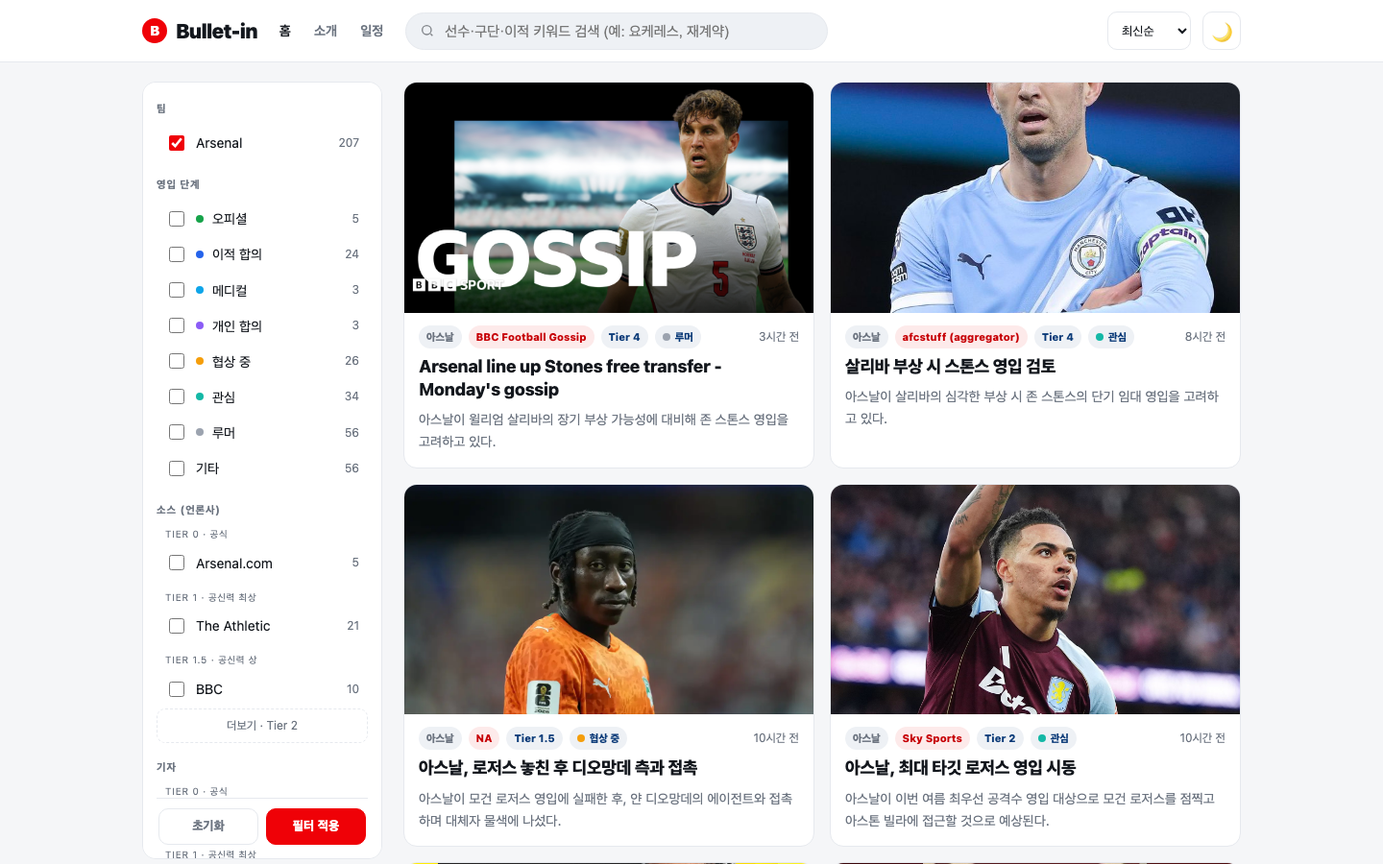
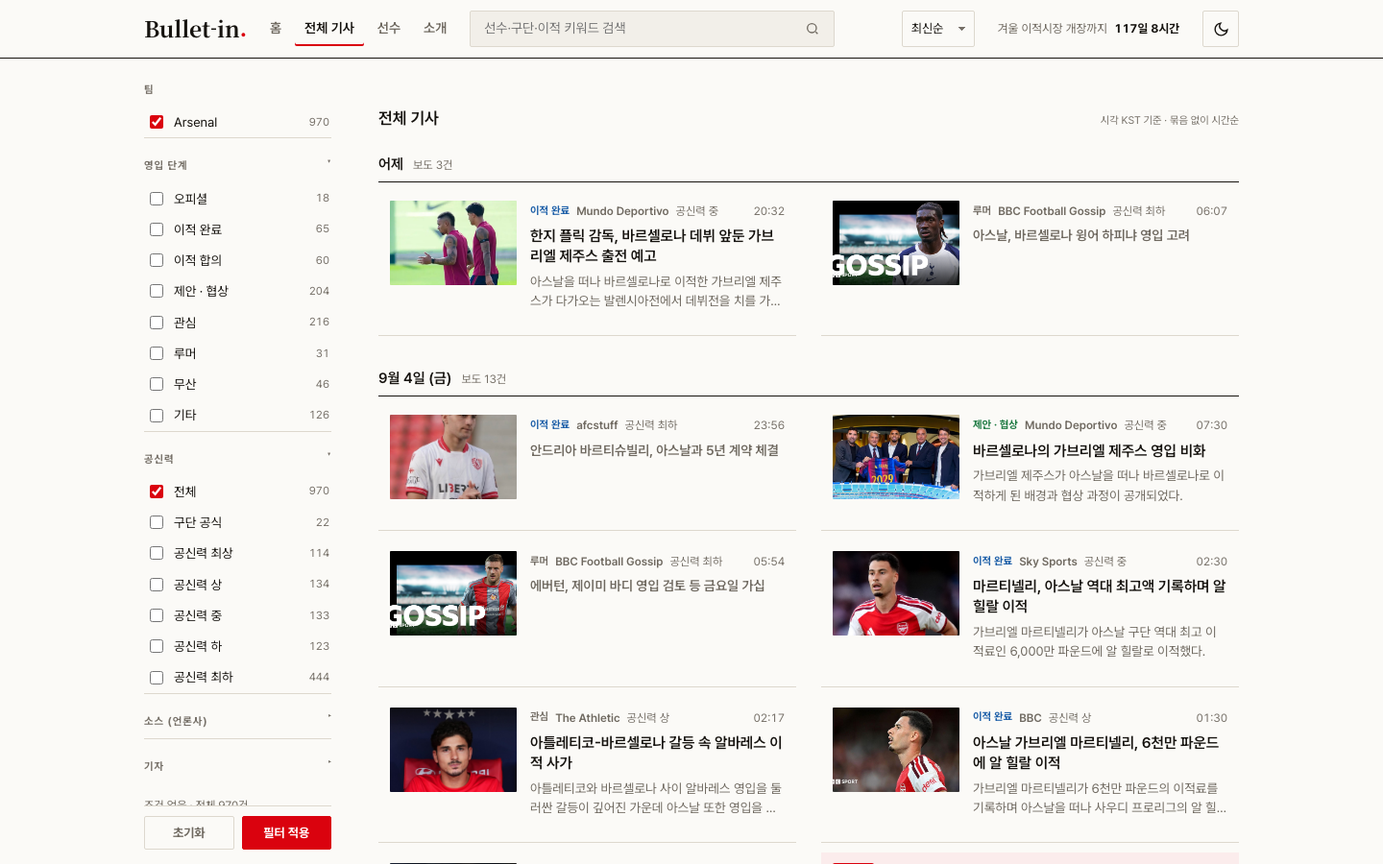
docs(readme): 지금 모양대로 다시 쓴다 — 운영 · 데이터 품질 · 문서 지도 절과 새 아키텍처 그림 · 대시보드 캡처 (안건 2χ) (#473)
* docs(readme): 두 화면 · 운영 · 데이터 품질 · 문서 지도 절과 아키텍처 그림을 지금 모양으로 (안건 2χ)

README 가 강점 셋 (레이크하우스 · 백업 복구 · 배포 자동화) 을 말하지 않고 낡은 그림 · 문장 (5월 아키텍처 · Gemini 무료 티어 · 7월 실측) 을 갖고 있었다. 세 독자 (30초 방문자 · 5분 엔지니어 · 운영자) 순서로 다시 쓴다. 캡처 셋은 다음 커밋.

- CI 배지와 「살아 있는지」 한 줄 · 공개 첫 주 방문자 (하한선)
- 아키텍처 그림을 SVG 로 다시 (회차 태스크 여덟 · 저장 넷 · 회차 밖 타이머) · ASCII 흐름도 갱신
- 「운영」 · 「데이터 품질」 · 「문서 지도 (다섯 편)」 절 신설
- §4 SLO 실측을 2026-09-05 값으로 · 번호는 수집 현황 화면과 같게
- §7 Gemini 「무료 티어로 비용 0」 을 「유료 (Tier 1 선불) · 금액은 결제 보고서에서」 로 · 레이크하우스 행
- §8 에 Iceberg 두 네임스페이스 (mart_history · behavior)
- 기자 tier 표는 config/credibility.yaml 링크로 (105명 · 55곳)
- §11 한계에 재방문 장치 없음 · 방문자 수는 하한선

Refs: 안건 2χ · 범위는 2026-09-04 사용자 동의 · 메모리 next-session-prompt-2026-09-05-pr-c-and-portfolio §0.9
Claude-Session: https://claude.ai/code/session_01TepUKdcHxnEbxiCMAJqgVK

* docs(readme): 라이브 캡처 셋 — 전체 기사 · 행동 지표 · 수집 현황 (안건 2χ)

2026-09-06 00:00 회차가 PR 2 (#471) 를 받은 뒤 라이브 세 화면을 1440px 로 찍었다. 첫 화면 자리는 홈 대신 전체 기사 화면이다. 홈의 대표 기사 사진이 assets.arsenal.com 에서 ORB 로 막혀 헤드리스에서 빈 자리로 나오기 때문이고, 실제 브라우저에서 보이는지는 확인 대상으로 남긴다.

- serving-page-live.png 를 all.html 캡처로 교체 (파일 이름은 옛 문서가 가리켜 유지) · 설명문 갱신
- dashboard-behavior-live.png · dashboard-ops-live.png 신설 (위 1,500px)
- 문체 점검 (humanize fast) 의 쉼표 11개 반영

Refs: 안건 2χ · PR #471 · docs/runbook/2026-09-04-running-the-cycle-under-airflow.md §6.5
Claude-Session: https://claude.ai/code/session_01TepUKdcHxnEbxiCMAJqgVK

---------

diff --git a/README.md b/README.md
@@ -1,14 +1,16 @@
 # Bullet-in
 
-> 영국 현지 언론 · ITK (X)의 Arsenal FC 소식을 매일 병렬 수집하고, 공신력으로 스코어링 · 중복제거한 뒤 LLM으로 번역 · 요약하여 신뢰도순으로 보여주는 뉴스 수집 파이프라인.
+[![CI](https://github.com/benidjor/bullet-in/actions/workflows/ci.yml/badge.svg)](https://github.com/benidjor/bullet-in/actions/workflows/ci.yml)
+
+> 영국 현지 언론 · ITK (X) 의 Arsenal FC 소식을 하루 8회 병렬 수집하고 공신력으로 스코어링 · 중복 제거한 뒤 LLM 으로 번역 · 요약해 신뢰도순으로 보여주는 뉴스 수집 파이프라인.
 >
-> **공개 서비스**: https://bullet-in.pages.dev — VM 스케줄이 하루 8회 자동 수집 · 배포.
+> **공개 서비스**: https://bullet-in.pages.dev — 2026-08-29 공개 · Airflow 회차가 3시간마다 수집 · 검사 · 배포한다. 지금 살아 있는지는 [수집 현황 화면](https://bullet-in.pages.dev/ops.html) 의 「생성」 시각과 SLO 표가 말해 준다.
 
-*Bullet-in = bulletin (단신) + bullet (병기고 Arsenal)의 언어유희.*
+*Bullet-in = bulletin (단신) + bullet (병기고 Arsenal) 의 언어유희.*
 
-![Bullet-in 인덱스 — 실데이터](docs/assets/serving-page-live.png)
+![Bullet-in 전체 기사 — 실데이터](docs/assets/serving-page-live.png)
 
-> 실데이터 인덱스. 신뢰도 (tier) 순 정렬 · 언론사 · 기자 facet 필터 · 한국어 번역 · 요약.
+> 전체 기사 화면 (`all.html`). 날짜별 시간순 · 영입 단계 · 공신력 · 소스 · 기자 facet 필터 · 한국어 번역 · 요약. 홈은 대표 기사와 주요 소식을 신문처럼 배치한다.
 
 ![Bullet-in 기사 상세 — 실데이터](docs/assets/article-detail-live.png)
 
@@ -18,148 +20,182 @@
 
 ## 1. 동기
 
-아스날 뉴스는 영국 현지 언론과 ITK (In The Know) 트위터에 흩어져 있고, 매체 · 계정마다 공신력 편차가 크다. 신뢰할 만한 소스만 골라 한곳에서, 한국어로 번역 · 요약해 신뢰도순으로 보고 싶다는 필요에서 출발했다. **영국 현지 소스를 한곳에 모아 공신력순으로 정렬하고 한국어로 번역 · 요약**하는 서비스다.
+아스날 뉴스는 영국 현지 언론과 ITK (In The Know) 트위터에 흩어져 있고 매체 · 계정마다 공신력 편차가 크다. 신뢰할 만한 소스만 골라 한곳에서, 한국어로 번역 · 요약해 신뢰도순으로 보고 싶다는 필요에서 출발했다. **영국 현지 소스를 한곳에 모아 공신력순으로 정렬하고 한국어로 번역 · 요약**하는 서비스다.
 
-단순 "긁어서 저장" 스크립트가 아니라, 신뢰성 · 멱등성 · 데이터 품질 · 관측성을 갖춘 **데이터 프로덕트**로 설계했다.
+단순 「긁어서 저장」 스크립트가 아니라 신뢰성 · 멱등성 · 데이터 품질 · 관측성을 갖춘 **데이터 프로덕트**로 설계했고 공개 첫 주에 실제 독자 890명 (7일 · 광고 차단 방문은 안 잡히므로 하한선) 이 다녀갔다.
 
 ## 2. 아키텍처
 
-메달리온 (Bronze→Silver/Gold) + AI 인리치먼트 파이프라인.
+메달리온 (Bronze → Silver → Gold) + LLM 인리치먼트 + 품질 게이트 + 배포 자동화. 회차 하나가 Airflow DAG 의 태스크 여덟으로 돈다.
 
-![아키텍처 — 수집 파이프라인](docs/assets/architecture.png)
+![아키텍처 — 회차 하나의 흐름](docs/assets/architecture.svg)
 
 ```
-[Ingest]    소스별 어댑터 (RSS · Guardian API · httpx+파서 · Playwright (X 쿠키) · fmkorea 검색)
-   │        단일 SourceAdapter 인터페이스 / asyncio 팬아웃 병렬
-   ▼
-[Normalize] pydantic 정규화
-   ▼
-[Dedup]     URL 정규화 + content_hash, 증분, 변경 감지
-   ▼
-[Score]     공신력 Tier(0~4) → confidence (YAML 설정)
-   ▼
-[Load raw]  MongoDB (불변 원문, schema-on-read) = Bronze
-   ▼
-[Load mart] MariaDB (정형 mart, UNIQUE dedup, 서빙) = Silver
-   ▼
-[Enrich]    LLM 번역(한국어) + 요약 + 영입 단계 분류 (신규 항목만, 멱등)
-   ▼
-[Quality]   dbt(DuckDB가 MariaDB attach) build + test = 품질 게이트 · 마트 = Gold
-   ▼ (통과 시)
-[Serve]     신뢰도순 정적 HTML
+Airflow DAG bullet_in_cycle (3시간 간격 · LocalExecutor · 태스크 여덟)
 
-스케줄: Airflow 3 DAG (VM · LocalExecutor) 가 태스크 넷으로 쪼개 하루 8회 실행 · 회차 끝 Cloudflare Pages 자동 배포
-        systemd 는 워치리스트 · 백업 · 유지보수 같은 부수 작업만 맡는다
+advance ─▶ collect ─▶ enrich ─▶ publish ─▶ gate ─▶ deploy_site ─▶ judge
+                                   └─▶ warehouse_load (publish 뒤 병렬)
+
+advance         origin/main 을 내려받는다 (세션이 VM 에서 git pull 을 하지 않는다)
+collect         소스 어댑터 아홉을 asyncio 로 병렬 수집 → 정규화 → URL · content_hash 로 중복 제거 → 공신력 tier → MongoDB (Bronze) · MariaDB (Silver)
+enrich          Gemini 로 번역 · 요약 · 영입 단계 분류 (신규 행만 · 멱등)
+publish         정적 HTML 렌더 (기사 · 선수 · 대시보드 두 화면) + 회차 기록 · 신선도 판정
+gate            dbt build + test 21종 (DuckDB 가 MariaDB attach) — 실패면 배포를 세운다
+deploy_site     Cloudflare Pages 업로드 (산출물이 비정상이면 중단)
+judge           라이브의 build.json 으로 반영을 확인 · 실패면 이전 커밋으로 롤백 · Discord 알림
+warehouse_load  MariaDB 변경분 · 스냅샷과 GA4 행동 로그를 Iceberg (GCS) 에 적재 · gold 표 재작성
 ```
+
+systemd 는 회차 밖의 부수 작업만 맡는다 — 선수 워치리스트 (귀속 선수를 fmkorea 에서 돌려 검색) · 매일 백업 (GCS) · 레이크하우스 유지보수 (스냅샷 만료 · 컴팩션) · Airflow 감시 (심박 · 회차 지연).
 
 ## 3. 핵심 기능
 
-- **이종 소스 통합** — RSS · REST API · 정적 HTML · JS 렌더링 · X (트위터)를 단일 어댑터 인터페이스 뒤로. 소스별 최적 도구 선택 (정적=httpx, API=Guardian, X=쿠키 주입 Playwright).
-- **병렬 수집** — asyncio 팬아웃 + 소스별 실패 격리 (한 소스 실패가 전체를 멈추지 않음).
-- **공신력 스코어링** — Tier 0 (Arsenal.com 공식)~4 (타블로이드)를 YAML로 외부화, confidence로 정렬.
-- **중복제거 · 증분 · 변경 감지** — content_hash + URL 정규화, DB UNIQUE 제약으로 앱 · DB 이중 방어.
-- **기자 단위 공신력 · 필터** — JSON-LD · meta 저자 추출, 소속 일치 시 기자 tier 우선 (min 가드), 언론사 · 기자 facet 필터 (tier 순 정렬). 전담 기자 보유 소스의 tier 는 비전담 기준선 — 전담 (등재) 기자 기사만 등재 tier 로 승격된다.
-- **LLM 번역 · 요약** — Gemini 2.5 Flash-Lite로 제목 · 본문 전문 번역, 한 줄 · 3줄 요약, 영입 단계 분류. 신규 항목만 처리해 멱등 · 저비용.
-- **데이터 품질 게이트** — dbt test (unique · not_null · accepted_values)로 "이상 점검"을 선언적으로. 신선도는 자체 워터마크 감시 (SLO-5).
-- **관측성 · 알림** — 수집 현황 ops 뷰 (`site/ops.html`), 수집량 이상 · 신선도 · 파이프라인 실패 Discord 알림.
+- **이종 소스 통합** — RSS · REST API · 정적 HTML · JS 렌더링 · X (트위터) · 한국 커뮤니티를 단일 어댑터 인터페이스 뒤로. 소스별 최적 도구 선택 (정적 = httpx, API = Guardian, X = 쿠키 주입 Playwright).
+- **병렬 수집 · 실패 격리** — asyncio 팬아웃. 한 소스의 실패가 회차를 멈추지 않는다.
+- **공신력 스코어링** — Tier 0 (Arsenal.com 공식) 에서 4 (타블로이드) 를 YAML 로 외부화, confidence 로 정렬. 기자 단위 tier 가 매체 tier 를 덮는다 (전담 기자의 기사만 승격).
+- **중복 제거 · 증분 · 변경 감지** — content_hash + URL 정규화, DB UNIQUE 제약으로 앱 · DB 이중 방어.
+- **LLM 번역 · 요약** — Gemini 2.5 Flash-Lite 로 제목 · 본문 번역, 한 줄 · 3줄 요약, 영입 단계 분류. 신규 행만 처리해 멱등. 429 를 만나면 그 회차를 멈추고 다음 회차가 잇는다.
+- **선수 축** — 기사에서 선수를 추출해 주체 · 언급으로 귀속하고 선수별 페이지와 이적 상태 (영입 진행 · 확정 · 무산 · 타 클럽행 · 방출) 를 명단에서 관리한다.
+- **데이터 품질 게이트** — 회차 끝 dbt test 21종이 배포를 막는다 (§6).
+- **배포 자동화** — 머지된 코드를 다음 회차가 스스로 받고 반영을 라이브에서 확인하고 실패면 되돌린다 (§5).
+- **관측성** — 대시보드 두 화면 (행동 지표 · 수집 현황) 과 Discord 알림 (수집량 이상 · 신선도 · 게이트 · 태스크 실패 · 배포 판정).
+- **행동 로그 · 레이크하우스** — GA4 이벤트를 Iceberg 에 bronze · silver · gold 로 쌓고 (사람 · 세션 · 코호트 표), 마트의 변경 이력과 일별 스냅샷도 같은 레이크하우스에 남긴다 (§8).
 
 **수집 소스** — 고정 tier 7종 + 항목별 동적 tier 2종 (X · 커뮤니티는 언급된 기자 · 매체의 공신력으로 산출). 언론 5종은 공통 이적 키워드 필터를 공유한다 (`config/sources.yaml`).
 
 | 소스 | tier | 어댑터 | 비고 |
 |---|---|---|---|
 | Arsenal.com | 0 | arsenal_api | 공식 — 공홈 GraphQL API, taxonomy 필터 (이적 · 1군 재계약) |
-| BBC Sport | 1.5 | html | 비전담 기준선 — 전담 (Mokbel) 은 min 가드로 tier 1 승격 |
-| Sky Sports | 2 | html | 비전담 기준선 — 전담 (Sheth) 은 min 가드로 tier 1.5 승격 |
+| BBC Sport | 1.5 | html | 비전담 기준선 — 전담 (Mokbel) 은 tier 1 승격 |
+| Sky Sports | 2 | html | 비전담 기준선 — 전담 (Sheth) 은 tier 1.5 승격 |
 | The Guardian | 3 | guardian_api | Open Platform API (`GUARDIAN_API_KEY` 필요) |
-| Goal.com | 4 | html | 정적 서빙 확인으로 playwright → html 전환 · 재활성 (2026-07) |
+| Goal.com | 4 | html | 정적 서빙 확인으로 playwright → html 전환 (2026-07) |
 | BBC Football Gossip | 4 | html | 타 매체 루머 라운드업 |
-| football.london | 4 | html | |
-| afcstuff (X) | 동적 | x_playwright | 트윗 내 언급 기자 · 매체 tier로 라우팅 (fallback 4) |
-| fmkorea 축구 소식통 | 동적 | fmkorea | 한국 커뮤니티 — 언급 기자 · 매체 tier로 라우팅 (기본 4) |
+| football.london | 4 | html | 2026-07 이후 비활성 (`enabled: false`) · 옛 회차 기록에는 남아 있다 |
+| afcstuff (X) | 동적 | x_playwright | 트윗 내 언급 기자 · 매체 tier 로 라우팅 (fallback 4) |
+| David Ornstein (X) | 1 | x_playwright | 기자 본인 계정 — 트윗에 @핸들이 없어 고정 tier |
+| fmkorea 축구 소식통 | 동적 | fmkorea | 한국 커뮤니티 — 언급 기자 · 매체 tier 로 라우팅 (기본 4) |
 
-**기자 · ITK 공신력** — 동적 소스 항목의 tier 산출 기준 (기자 먼저 → 매체 → 기본 4). 전체 레지스트리는 `config/credibility.yaml`.
-
-| tier | 기자 · ITK |
-|---|---|
-| 1 | David Ornstein (The Athletic) · Sami Mokbel (BBC) |
-| 1.5 | Fabrizio Romano (독립) · James McNicholas (The Athletic) · Art de Roché (The Athletic) · Dharmesh Sheth (Sky Sports) · handofarsnal (ITK) |
-| 2 | Amy Lawrence (The Athletic) · James Olley (ESPN) · Matt Law (The Telegraph) · Sam Dean (The Telegraph) · Luke Edwards (The Telegraph) · Sacha Tavolieri (Sky Sports) · Teamnewsandtix (ITK) |
-| 3 | Charles Watts (독립) · Simon Collings (The Sun) · Gary Jacob (The Times) · Miguel Delaney (The Independent) · Gianluca Di Marzio (Sky Italia) · LatteFirm (ITK) |
-| 4 | Tom Canton (football.london) |
+**기자 · ITK 공신력** — 동적 소스 항목의 tier 산출 기준 (기자 먼저 → 매체 → 기본 4). 레지스트리 전체 (기자 · ITK 105명 · 매체 55곳 · 별칭) 는 [`config/credibility.yaml`](config/credibility.yaml) 에 있고 화면의 기자 필터가 같은 파일을 읽는다.
 
 ## 4. 정량 지표 (SLO)
 
-> 목표치와 측정 방법. 병렬화 실측 절차 · 로그는 [SLO-1 벤치마크 런북](docs/runbook/2026-07-14-slo1-benchmark.md), SLO-2 · 3 · 4 · 6 은 [SLO 측정 런북](docs/runbook/2026-07-19-slo-measurement.md). 번호는 수집 현황 화면 (`ops.html`) 의 SLO 표와 같다.
+> 목표치와 측정 방법. 번호는 [수집 현황 화면](https://bullet-in.pages.dev/ops.html) 의 SLO 표와 같고 SLO-2 에서 6 은 회차마다 그 화면에 다시 적힌다. 병렬화 실측 절차는 [SLO-1 벤치마크 런북](docs/runbook/2026-07-14-slo1-benchmark.md), 측정 방법의 정의는 [SLO 측정 런북](docs/runbook/2026-07-19-slo-measurement.md).
 
-| 번호 | 지표 | 목표 | 측정 방법 | 실측 |
+| 번호 | 지표 | 목표 | 측정 방법 | 실측 (2026-09-05) |
 |---|---|---|---|---|
-| SLO-1 | 병렬화 수집 시간 단축 | 순차 대비 ≥ 55%↓ (실측 기반 재조정¹) | `metrics.benchmark()` (concurrency=1 vs N 벤치마크) | 56.5%↓ (2026-07-15, 3회 중앙값) |
-| SLO-2 | 일일 수집 성공률 | ≥ 99% | `pipeline_runs.success_rate` (재시도 · 소스 격리 포함) | 99.3% (2026-07-19, 17회 평균) |
-| SLO-3 | 중복 적재율 | 0% | content_hash UNIQUE + dbt `unique` 테스트 | 0% (2026-07-19, mart 358건 dbt PASS + SQL 교차) |
-| SLO-4 | 필수 필드 완전성 | ≥ 99% | dbt `not_null` 테스트 통과율 | 100% (2026-07-19, mart 358건) |
-| SLO-5 | 소스 신선도 | 끊긴 소스 0 | `source_freshness` 워터마크 · 소스별 임계 초과 여부 (회차마다) | 회차마다 수집 현황 화면 SLO 표에 |
-| SLO-6 | 수집량 이상 감지 | 전일 대비 ±2σ 알림 | `quality.volume_anomaly` | 가동 (실발송 검증 2026-07-13) |
+| SLO-1 | 병렬화 수집 시간 단축 | 순차 대비 ≥ 55%↓ (실측 기반 재조정¹) | `metrics.benchmark()` (concurrency=1 vs N 벤치마크) | 56.5%↓ (2026-07-15, 3회 중앙값 · 회차마다 안 잰다) |
+| SLO-2 | 회차 성공률 | ≥ 99% | `pipeline_runs.success_rate` 최근 30회 평균 (재시도 · 소스 격리 포함) | 99.6% |
+| SLO-3 | 중복 적재율 | 0% | content_hash · URL UNIQUE + dbt `unique` 테스트 5종 | 0% (기사 1,045건) |
+| SLO-4 | 필수 필드 완전성 | ≥ 99% | dbt `not_null` 테스트 10종 | 100% |
+| SLO-5 | 소스 신선도 | 끊긴 소스 0 | `source_freshness` 워터마크 · 소스별 임계 (24h 에서 192h) 초과 여부 | 0 |
+| SLO-6 | 수집량 이상 감지 | 이상 소스 0 · ±2σ 알림 | `quality.volume_anomalies` (직전 회차들 대비) | 0 · 가동 (실발송 검증 2026-07-13) |
 
-¹ 초기 목표 ~70%는 최장 소스 (x_afcstuff, Playwright ~42s)가 병렬 시간의 하한을 결정하는 구조로 도달 불가 실측 — 사유 · 산식은 런북 §5.
+¹ 초기 목표 ~70% 는 최장 소스 (x_afcstuff, Playwright ~42s) 가 병렬 시간의 하한을 결정하는 구조로 도달 불가 실측 — 사유 · 산식은 런북 §5.
 
-## 5. 기술 스택 & 선택 이유
+## 5. 운영
+
+회차 · 배포 · 감시가 사람 손 없이 돈다. 2026-09-04 에 systemd 타이머에서 Airflow DAG 로 옮겼고 첫 24시간 정규 8회가 전부 성공했다 (3.5분에서 6.0분 · 재시도 0 · 오경보 0 — [런북 §6.5](docs/runbook/2026-09-04-running-the-cycle-under-airflow.md)).
+
+- **회차** — Airflow 3.3.1 · LocalExecutor · Postgres 메타 DB · DAG 하나 · 태스크 여덟 (§2). `catchup=False` · `max_active_runs=1` · `dagrun_timeout` 30분으로 옛 타이머의 성질 (밀린 회차는 한 번 · 이중 실행 금지) 을 그대로 옮겼다.
+- **배포 자동화** — `advance` 가 `origin/main` 을 내려받고 회차가 돈 뒤 `judge` 가 라이브의 `build.json` 으로 반영을 확인한다. 게이트 실패 · 배포 실패 · 반영 불일치면 이전 커밋으로 되돌리고 Discord 리뷰 채널에 알린다. 설계는 [배포 자동화 스펙](docs/superpowers/specs/2026-09-03-deploy-automation-design.md).
+- **알림** — Discord 채널 둘 (사고 · 리뷰). 수집량 이상 · 소스 신선도 · dbt 게이트 차단 · 태스크 실패 · DAG 시간 초과 · 배포 판정 · 워치리스트 · 명단 정합. 알림은 「무엇이 · 어디서 · 다음에 볼 로그」 를 한 장에 싣는다.
+- **백업** — 매일 MariaDB 논리 덤프와 MongoDB 아카이브 (합쳐 약 4 MB) 를 GCS 로. 복구는 되살려 본 절차만 적는다 ([백업 · 복구 런북](docs/runbook/2026-09-01-backup-and-restore.md)).
+- **대시보드 두 화면** — 정적 HTML 이고 회차마다 다시 그린다. 검색 엔진에는 싣지 않는다.
+
+![행동 지표 화면](docs/assets/dashboard-behavior-live.png)
+
+> [행동 지표](https://bullet-in.pages.dev/behavior.html) — DAU · 퍼널 (진입 → 카드 클릭 → 반복 → 재방문) · 요일 × 시각 히트맵 · 관심 지수 · 리텐션 · 화면별 클릭 · 페이지 · 상위 기사 · 선수 페이지. GA4 → Iceberg gold 표에서 집계한다.
+
+![수집 현황 화면](docs/assets/dashboard-ops-live.png)
+
+> [수집 현황](https://bullet-in.pages.dev/ops.html) — SLO 여섯 행 · 일별 신규 · 회차 수 캘린더 · 소스 × 주 · 처리량 · 소요 밴드 · 발행 → 수집 지연 · 선수 축 · 공신력 · 단계 구성 · 소스 신선도. MariaDB 와 직전 회차 게이트 결과 파일에서 그린다.
+
+## 6. 데이터 품질
+
+품질 검사는 「이상 점검」 을 선언하고 통과하지 못하면 배포를 세운다.
+
+- **dbt 게이트** — 회차의 `gate` 태스크가 `dbt build` 로 스테이징 다섯 · gold 셋을 만들고 테스트 21종 (unique 5 · not_null 10 · accepted_values 4 · relationships 2) 을 돈다. 차단이면 `deploy_site` 가 돌지 않고 알림이 나간다. 경고 (임계 아래 결측) 는 저널에 남긴다. 설계는 [dbt 품질 게이트 스펙](docs/superpowers/specs/2026-08-31-dbt-quality-gate-design.md).
+- **게이트 자체의 고장** — dbt 가 신호로 죽으면 (세그폴트) 한 번 더 돌리고 결과 파일이 없으면 통과로 읽지 않는다. 2026-08-31 에 실제로 막힌 뒤 진단을 stdout · stderr 둘 다 싣게 고쳤다 ([트러블슈팅](docs/troubleshooting/2026-09-01-the-gate-blocked-and-the-journal-could-not-say-why.md)).
+- **신선도** — 소스마다 마지막 수집 시각을 원본 수집 워터마크로 판정한다. 임계는 소스마다 다르고 (24h 에서 192h) 실측 공백 분포로 정했다. 초과하면 알림, 재알림은 48시간 간격.
+- **수집량 이상** — 직전 회차들의 소스별 건수 대비 ±2σ 드롭 · 스파이크를 회차마다 본다.
+- **번역 품질** — 재작성 잔존율 (원문 문장이 그대로 남은 비율) 이 임계를 넘은 기사를 수집 현황 화면에 올린다. 사람이 본다.
+- **테스트** — 1,772 (단위 · 통합 · DAG 임포트). 통합 테스트는 CI 의 MariaDB 컨테이너에 실제로 붙는다.
+
+## 7. 기술 스택 & 선택 이유
 
 | 영역 | 선택 | 이유 |
 |---|---|---|
-| 서빙 mart | **MariaDB** | 일 수십~수백 건 서빙 (포인트 조회 · 필터 · UNIQUE dedup)에 OLTP가 최적 |
-| 원본 랜딩 | **MongoDB** | 이종 원문을 손실 없이 schema-on-read로 보존 → 재처리 가능 |
-| 품질/분석 | **dbt + DuckDB** | dbt test가 "이상 점검"과 정면 일치, DuckDB가 MariaDB attach해 zero-infra 분석 |
-| 스크래핑 | **Playwright/httpx** | 소스 난이도 (정적~쿠키 인증 · 안티봇)에 맞는 도구 선택. X는 쿠키 주입 Playwright |
-| 스케줄 · 배포 | **Airflow 3 (LocalExecutor) + wrangler** | 회차 · 웨어하우스 적재를 태스크 넷 + 배포 훅으로 쪼개 하루 8회 (3시간 간격) 실행 ([마이그레이션](docs/MIGRATION.md)) · 회차 끝 Pages 직접 업로드. systemd 는 워치리스트 · 백업 · 유지보수 같은 부수 작업만 맡는다 |
-| LLM 번역 · 요약 | **Gemini 2.5 Flash-Lite** | 일 수백 건 저용량 · 단순 번역에 최적. [무료 티어](https://ai.google.dev/gemini-api/docs/pricing)로 비용 0, 유료도 1M 토큰당 입력 $0.10 · 출력 $0.40. `response_mime_type`으로 JSON 출력 유도 |
+| 서빙 mart | **MariaDB** | 일 수십 건 서빙 (포인트 조회 · 필터 · UNIQUE dedup) 에 OLTP 가 최적 |
+| 원본 랜딩 | **MongoDB** | 이종 원문을 손실 없이 schema-on-read 로 보존 → 재처리 가능 |
+| 품질 · 분석 | **dbt + DuckDB** | dbt test 가 「이상 점검」 과 정면 일치 · DuckDB 가 MariaDB 를 attach 해 별도 인프라 없이 |
+| 레이크하우스 | **Apache Iceberg on GCS + Google Lakehouse runtime catalog** | 변경 이력 · 스냅샷 · 행동 로그처럼 쌓이기만 하는 데이터를 서빙 DB 밖에 · pyiceberg 로 쓰고 카탈로그는 빌린다 (운영할 서버 없음) · 스냅샷 만료 7일 · 컴팩션 ([설계](docs/superpowers/specs/2026-09-02-history-lakehouse-design.md)) |
+| 스크래핑 | **Playwright / httpx** | 소스 난이도 (정적에서 쿠키 인증 · 안티봇) 에 맞는 도구 선택 · X 는 쿠키 주입 Playwright |
+| 스케줄 · 배포 | **Airflow 3 (LocalExecutor) + wrangler** | 회차를 태스크 여덟으로 쪼개 3시간마다 · 실패 태스크만 보이고 판정 태스크가 배포를 되돌린다 ([마이그레이션](docs/superpowers/specs/2026-09-04-airflow-migration-design.md)) · 회차 끝 Pages 직접 업로드 |
+| LLM 번역 · 요약 | **Gemini 2.5 Flash-Lite** | 일 수백 건 저용량 · 단순 번역에 맞는 단가 · `response_mime_type` 으로 JSON 출력 유도. **유료 (Tier 1 선불)** 이고 월 요금은 GCP 결제 보고서에서 읽는다 — 문서에 금액을 적어 두면 낡는다 |
 
-**왜 CDC를 안 썼나** — CDC (Debezium/binlog)는 상류 트랜잭션 DB의 변경을 캡처하는 기술인데, 본 파이프라인의 소스는 웹/API/X라 읽을 binlog가 없다. 일 수백 건 배치에 Kafka+Debezium은 과설계이므로, **앱 레벨 변경 감지 (content_hash 비교 + revision)**로 뉴스 수정 · 삭제에 대응했다.
+**왜 CDC 를 안 썼나** — CDC (Debezium · binlog) 는 상류 트랜잭션 DB 의 변경을 캡처하는 기술인데, 이 파이프라인의 소스는 웹 · API · X 라 읽을 binlog 가 없다. 일 수백 건 배치에 Kafka + Debezium 은 과설계이므로 **앱 레벨 변경 감지 (content_hash 비교 + revision)** 로 뉴스 수정 · 삭제에 대응했다. 변경 이력은 회차마다 Iceberg `articles_changes` 에 남는다.
 
-## 6. 데이터 모델
+## 8. 데이터 모델
 
 메달리온 세 층이 서로 다른 저장소에 있다. 층 이름은 실물이 있는 자리에만 붙였다.
 
-- **Bronze — MongoDB `raw_items`**: 원문 불변 보존.
-- **Silver — MariaDB 6표**: `articles` (정규화 메타 + tier + confidence + 번역/요약, `content_hash` · `url` UNIQUE로 dedup) · `sources` · `players` · `article_players` · `pipeline_runs` (런별 SLO 근거 — 성공률 · 소요시간 · 신규/에러 건수) · `source_freshness` (소스별 신선도 워터마크 이력, SLO-5, 회차 × 소스).
+- **Bronze — MongoDB `raw_items`**: 원문 불변 보존. 신선도 판정의 워터마크가 여기서 나온다.
+- **Silver — MariaDB 6표**: `articles` (정규화 메타 + tier + confidence + 번역 · 요약, `content_hash` · `url` UNIQUE 로 dedup) · `sources` · `players` · `article_players` (주체 · 언급) · `pipeline_runs` (회차별 SLO 근거) · `source_freshness` (회차 × 소스 신선도 이력).
 - **Gold — dbt `models/gold/` 3모델**: `gold_daily_source_quality` · `gold_slo_rollup` · `gold_tier_distribution`. 회차 끝 `dbt build` 가 갱신하고 같은 실행의 테스트 21종이 품질 게이트다.
 
-`models/staging/` 다섯은 MariaDB 표를 그대로 읽어 오는 통과 뷰라 층 이름을 안 붙였다 — 붙이면 silver 라 불리는 것이 표와 뷰 둘로 갈린다.
+`models/staging/` 다섯은 MariaDB 표를 그대로 읽어 오는 통과 뷰라 층 이름을 안 붙였다.
 
-## 7. 실행 방법
+**레이크하우스 (Iceberg on GCS)** — 서빙 DB 밖에 쌓이는 두 네임스페이스.
+
+- `mart_history` — `articles_changes` (회차마다 변경분) · `articles_snapshot` · `players_snapshot` · `article_players_snapshot` (90일까지 매일 · 이후 주 1회) · `ops_daily`.
+- `behavior` — GA4 이벤트의 bronze `ga4_events` · silver `ga4_events_flat` · gold `fact_card_click` · `dim_date` · `fact_session` · `fact_user_daily` · `dim_user`. gold 는 회차마다 silver 에서 통째로 다시 만든다. 사람을 세는 키는 `user_pseudo_id` 하나다 ([두 키를 섞으면 두 배로 센다](docs/troubleshooting/2026-09-04-two-keys-double-the-visitor-count.md)).
+
+## 9. 실행 방법
 
 ```bash
 # 0. 환경
-cp .env.example .env          # 값 채우기 (Mongo/MariaDB/Gemini/Guardian/X)
+cp .env.example .env          # 값 채우기 (Mongo · MariaDB · Gemini · Guardian · X)
 uv sync --extra dev
 uv run playwright install chromium
 
 # 1. 데이터 스토어
 docker compose up -d          # mongo, mariadb
 
-# 2. 파이프라인 실행 (dotenv 미사용 → 셸 export 필요)
+# 2. 회차 한 번 (dotenv 미사용 → 셸 export 필요)
 set -a; source .env; set +a
-uv run python -m bullet_in.run --concurrency 8
+uv run python -m bullet_in.run --concurrency 8          # collect → enrich → publish → gate 를 한 프로세스로
 
-# 3. 품질 게이트
-cd dbt && uv run dbt build --profiles-dir .
-
-# 4. 결과 확인
-open site/index.html
+# 3. 결과 확인
+open site/index.html          # 기사 · 선수 · 대시보드 두 화면 (site/behavior.html · site/ops.html)
 ```
 
-테스트: `uv run pytest -q` (단위/통합), Airflow DAG 임포트는 별도 venv에서 검증 ([docs/MIGRATION.md](docs/MIGRATION.md)).
+테스트는 `uv run pytest -q` (단위 · 통합 · 통합은 MariaDB 컨테이너가 없으면 skip). Airflow DAG 임포트는 별도 venv 에서 검증한다 ([docs/MIGRATION.md](docs/MIGRATION.md)). 운영 VM 의 회차 · 손 시작 · 되돌리기는 [Airflow 런북](docs/runbook/2026-09-04-running-the-cycle-under-airflow.md).
 
-운영 절차는 [docs/runbook/](docs/runbook/), 트러블슈팅 기록은 [docs/troubleshooting/](docs/troubleshooting/).
+## 10. 문서 지도
 
-## 8. 한계 & 향후
+설계 (`docs/superpowers/specs/` 71편) · 계획 (`docs/superpowers/plans/` 60편) · 런북 (`docs/runbook/` 84편) · 트러블슈팅 (`docs/troubleshooting/` 173편) 이 있다. 처음 읽을 다섯 편.
 
-- 현재는 정적 서빙 (수집 현황은 ops 뷰로 제공). 방문 분석은 GA4 이벤트 4종으로 수집한다 ([이벤트 스키마](docs/superpowers/specs/2026-08-31-analytics-event-schema.md)). 향후: 사용자 구독.
-- 소스 확장 (The Athletic 등 하드 페이월, 추가 ITK)은 어댑터 추가로 대응.
-- 교차 corroboration 스코어링 (다수 소스 보도 시 신뢰도↑), 번역 정확도 스팟체크는 stretch.
+1. [회차를 Airflow 로 옮긴 설계](docs/superpowers/specs/2026-09-04-airflow-migration-design.md) — 왜 지금 옮겼나 · 태스크 여덟 · 실패의 세 갈래 (급사 · 건너뜀 · 차단) · 되돌리기.
+2. [배포 자동화 설계](docs/superpowers/specs/2026-09-03-deploy-automation-design.md) — 머지된 코드가 스스로 배포되고 확인되고 되돌려지는 길.
+3. [dbt 품질 게이트 설계](docs/superpowers/specs/2026-08-31-dbt-quality-gate-design.md) 와 [게이트가 막혔는데 저널이 이유를 못 말한 날](docs/troubleshooting/2026-09-01-the-gate-blocked-and-the-journal-could-not-say-why.md).
+4. [백업 · 복구 런북](docs/runbook/2026-09-01-backup-and-restore.md) — 되살려 본 적 없는 백업은 백업이 아니다.
+5. [두 키를 섞으면 방문자가 두 배로 센다](docs/troubleshooting/2026-09-04-two-keys-double-the-visitor-count.md) 와 [층을 잘못 본 차트 셋](docs/troubleshooting/2026-09-04-three-charts-that-pointed-at-the-wrong-layer.md) — 행동 로그를 화면에 올리기 전에 밟은 측정 함정.
 
-## 9. 윤리 & 법적 고지
+트러블슈팅은 「무엇이 틀렸나」 보다 「어떤 잣대가 그것을 못 봤나」 를 적는다. 같은 잣대의 구멍이 다른 자리에서 되풀이되기 때문이다.
 
-- 공개 콘텐츠 대상, robots.txt 준수, 보수적 rate limit, 출처/링크 표기.
-- X (ITK)는 ToS 그레이존 → 버너 계정 사용, 자격증명은 `.env`로 분리 (커밋 금지), 개인 학습 용도.
+## 11. 한계 & 향후
+
+- **재방문을 붙잡는 장치가 없다** — 공개 첫 주 진입 863명 가운데 카드를 누른 사람이 221명, 그 가운데 이틀 이상 다시 온 사람은 71명이다. 구독 · 알림 같은 장치는 아직 없다.
+- **방문자 수는 하한선이다** — GA4 는 광고 차단 방문을 잡지 못한다. 화면과 이 문서의 사용자 수는 전부 실제보다 작다.
+- **정적 서빙** — 페이지는 회차마다 다시 그린 HTML 이고 개인화 · 검색은 없다.
+- **소스 확장** — The Athletic 같은 하드 페이월 · 추가 ITK 는 어댑터 추가로 대응한다. 교차 corroboration 스코어링 (다수 소스 보도 시 신뢰도↑) 과 번역 정확도 스팟체크는 stretch.
+- **단일 VM** — 회차 · Airflow · DB 컨테이너가 한 VM 에 있다. 백업이 매일 나가지만 장애 시 복구는 사람이 런북대로 한다.
+
+## 12. 윤리 & 법적 고지
+
+- 공개 콘텐츠 대상, robots.txt 준수, 보수적 rate limit, 출처 · 링크 표기.
+- X (ITK) 는 ToS 그레이존 → 버너 계정 사용, 자격증명은 `.env` 로 분리 (커밋 금지), 개인 학습 용도.
 - 원문 전체 재배포가 아니라 메타데이터 · 요약 · 원문 링크 중심으로 서빙.
 - 소스 성질에 비례한 차등 서빙 — 언론사 기사는 요약 + 짧은 발췌 + 원문 링크, 수십 단어 트윗과 구단 공식 발표문만 전문, 퍼가기 금지 커뮤니티는 헤드라인만.
+- 방문 분석은 GA4 익명 id 만 쓰고 개인을 식별하지 않는다 ([이벤트 스키마](docs/superpowers/specs/2026-08-31-analytics-event-schema.md)).
